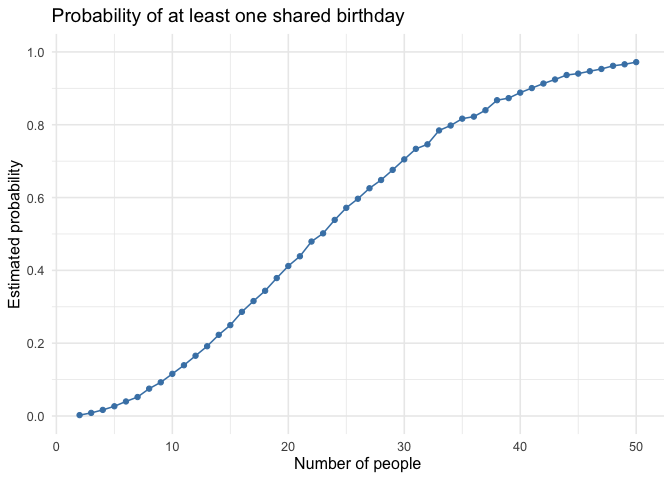
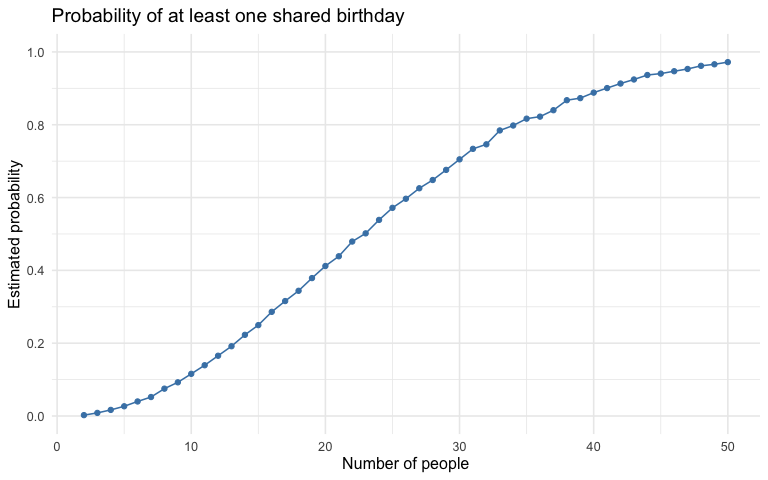
Problem 3 + intro sentences for each problem

diff --git a/p8105_hw5_hs3653.md b/p8105_hw5_hs3653.md
@@ -5,6 +5,10 @@ Hyder Said
 
 ## Problem 1
 
+Simulated birthdays for groups of 2-50 people and estimated the
+probability of at least one shared birthday using 10,000 simulations per
+group size
+
 ``` r
 shared_birthday = function(n) {
 
@@ -52,12 +56,15 @@ birthday_summary |>
 ![](p8105_hw5_hs3653_files/figure-gfm/birthday_plot-1.png)<!-- -->
 
 Across 10,000 simulations per group size, the estimated probability of
-at ≥1 shared birthday increased with bigger group size. For example, the
+at least one shared birthday increased with group size. For example, the
 probability was 0.28% with 2 people, 57.5% with 25 people, and 96.8%
 with 50 people. This occurs because larger groups contain more pairs of
 people who could share a birthday.
 
 ## Problem 2
+
+Combined the participant files into a “tidy” dataset with 1 row per
+participant/week and plotted individual trajectories by study arm
 
 ``` r
 # Create a tidy dataframe containing data from all participants
@@ -155,3 +162,194 @@ observations in the experimental arm. Both groups showed variation
 between participants and week-to-week fluctuations within participants.
 
 ## Problem 3
+
+Generated 5,000 normally distributed datasets for each true mean from 0
+to 6, fixing the sample size at 30 and standard deviation at 5, and
+applied a two-sided one-sample t-test against a null mean of zero.
+
+``` r
+sim_t_test = function(mu, n = 30, sigma = 5) {
+
+  sim_data =
+    tibble(
+      x = rnorm(n, mean = mu, sd = sigma)
+    )
+
+  t.test(sim_data$x, mu = 0) |>
+    broom::tidy() |>
+    select(
+      mu_hat = estimate,
+      p_value = p.value
+    )
+
+}
+
+sim_t_test(mu = 0)
+```
+
+    ## # A tibble: 1 × 2
+    ##   mu_hat p_value
+    ##    <dbl>   <dbl>
+    ## 1  -1.62  0.0545
+
+``` r
+t_test_results =
+  expand_grid(
+    true_mu = 0:6,
+    iter = 1:5000
+  ) |>
+  mutate(
+    results = map(true_mu, sim_t_test)
+  ) |>
+  unnest(cols = results) |>
+  mutate(
+    rejected = p_value < 0.05
+  )
+
+t_test_results
+```
+
+    ## # A tibble: 35,000 × 5
+    ##    true_mu  iter  mu_hat p_value rejected
+    ##      <int> <int>   <dbl>   <dbl> <lgl>   
+    ##  1       0     1 -0.542   0.569  FALSE   
+    ##  2       0     2 -0.278   0.767  FALSE   
+    ##  3       0     3 -0.303   0.733  FALSE   
+    ##  4       0     4  0.406   0.637  FALSE   
+    ##  5       0     5  0.147   0.881  FALSE   
+    ##  6       0     6  1.20    0.191  FALSE   
+    ##  7       0     7 -0.0542  0.957  FALSE   
+    ##  8       0     8 -0.119   0.878  FALSE   
+    ##  9       0     9 -1.89    0.0712 FALSE   
+    ## 10       0    10 -1.35    0.209  FALSE   
+    ## # ℹ 34,990 more rows
+
+``` r
+power_summary =
+  t_test_results |>
+  group_by(true_mu) |>
+  summarize(
+    rejection_rate = mean(rejected),
+    .groups = "drop"
+  )
+
+power_summary
+```
+
+    ## # A tibble: 7 × 2
+    ##   true_mu rejection_rate
+    ##     <int>          <dbl>
+    ## 1       0          0.05 
+    ## 2       1          0.187
+    ## 3       2          0.569
+    ## 4       3          0.887
+    ## 5       4          0.987
+    ## 6       5          0.999
+    ## 7       6          1
+
+``` r
+power_summary |>
+  ggplot(aes(x = true_mu, y = rejection_rate)) +
+  geom_line(color = "steelblue") +
+  geom_point(color = "steelblue", size = 2) +
+  scale_x_continuous(breaks = 0:6) +
+  scale_y_continuous(
+    limits = c(0, 1),
+    breaks = seq(0, 1, 0.2)
+  ) +
+  labs(
+    title = "Rejection probability by true population mean",
+    x = "True population mean",
+    y = "Proportion of tests rejecting the null"
+  ) +
+  theme_minimal(base_size = 12)
+```
+
+![](p8105_hw5_hs3653_files/figure-gfm/power_plot-1.png)<!-- -->
+
+With sample size and standard deviation fixed, power increased as the
+true population mean moved further from the null value of 0,
+corresponding to a larger effect size. For example, power was 18.4% at a
+true mean of 1, 56.7% at 2, and 89.2% at 3, approaching 100% for true
+means ≥4. Larger effects were therefore more likely to be detected with
+the same sample size and variability. When the true mean was 0, 5.16% of
+tests rejected the null, close to the expected Type I error rate of 5%.
+
+``` r
+estimate_summary =
+  t_test_results |>
+  group_by(true_mu) |>
+  summarize(
+    mean_all = mean(mu_hat),
+    mean_rejected = mean(mu_hat[rejected]),
+    .groups = "drop"
+  )
+
+estimate_summary
+```
+
+    ## # A tibble: 7 × 3
+    ##   true_mu mean_all mean_rejected
+    ##     <int>    <dbl>         <dbl>
+    ## 1       0  0.00545         0.236
+    ## 2       1  0.992           2.21 
+    ## 3       2  2.01            2.62 
+    ## 4       3  3.01            3.20 
+    ## 5       4  4.01            4.04 
+    ## 6       5  5.01            5.01 
+    ## 7       6  6.00            6.00
+
+``` r
+estimate_summary |>
+  pivot_longer(
+    cols = c(mean_all, mean_rejected),
+    names_to = "samples",
+    values_to = "average_estimate"
+  ) |>
+  mutate(
+    samples = recode(
+      samples,
+      mean_all = "All samples",
+      mean_rejected = "Rejected null only"
+    )
+  ) |>
+  ggplot(
+    aes(
+      x = true_mu,
+      y = average_estimate,
+      color = samples
+    )
+  ) +
+  geom_abline(
+    intercept = 0,
+    slope = 1,
+    linetype = "dashed",
+    color = "gray50"
+  ) +
+  geom_line() +
+  geom_point(size = 2) +
+  scale_x_continuous(breaks = 0:6) +
+  labs(
+    title = "Average estimated mean by true population mean",
+    subtitle = "Dashed line indicates equality with the true mean",
+    x = "True population mean",
+    y = "Average estimated mean",
+    color = NULL
+  ) +
+  theme_minimal(base_size = 12) +
+  theme(legend.position = "bottom")
+```
+
+![](p8105_hw5_hs3653_files/figure-gfm/mu_estimate_plot-1.png)<!-- -->
+
+Across all simulated datasets, the average estimated mean was close to
+the true mean. Among datasets that rejected the null (p \< 0.05), small
+positive effects were overestimated. For example, when the true mean was
+1, the average estimate among significant datasets was 2.24. Because
+sample means vary across datasets, selecting only significant results
+favors higher estimates and raises the average above the true mean. As
+power increased, nearly all datasets rejected the null, and the average
+estimate approached the true mean. When the true mean was 0, positive
+and negative significant estimates tended to cancel out, leaving an
+average close to zero both for all samples and for the rejected null
+subset.
